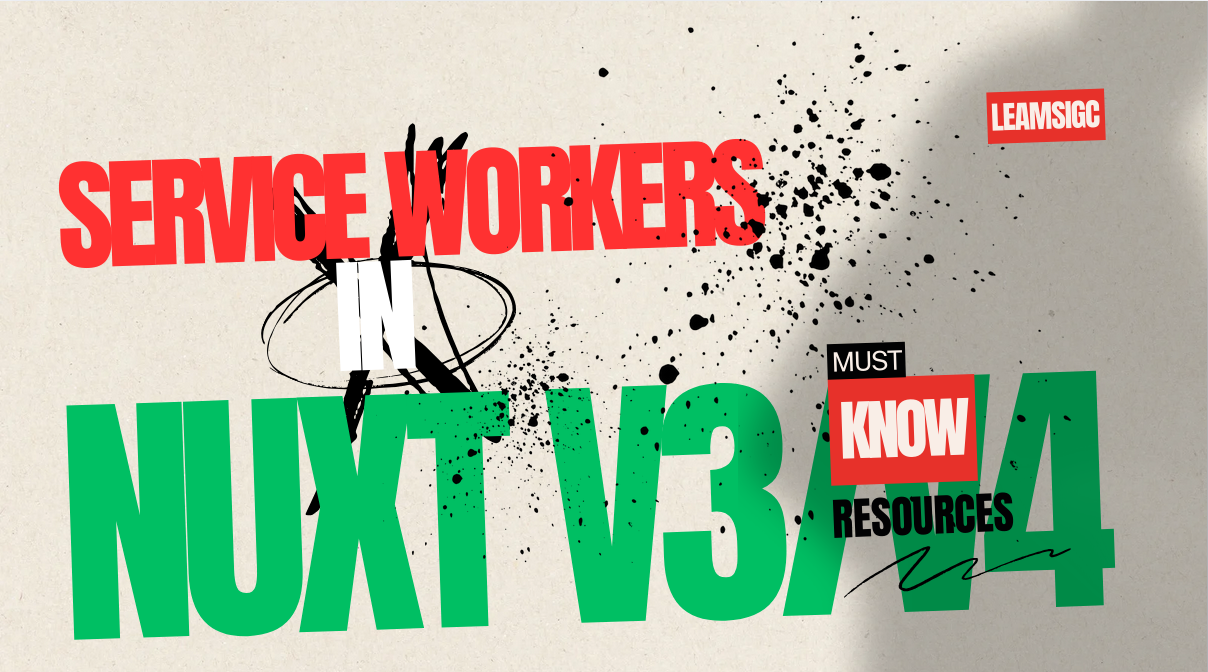
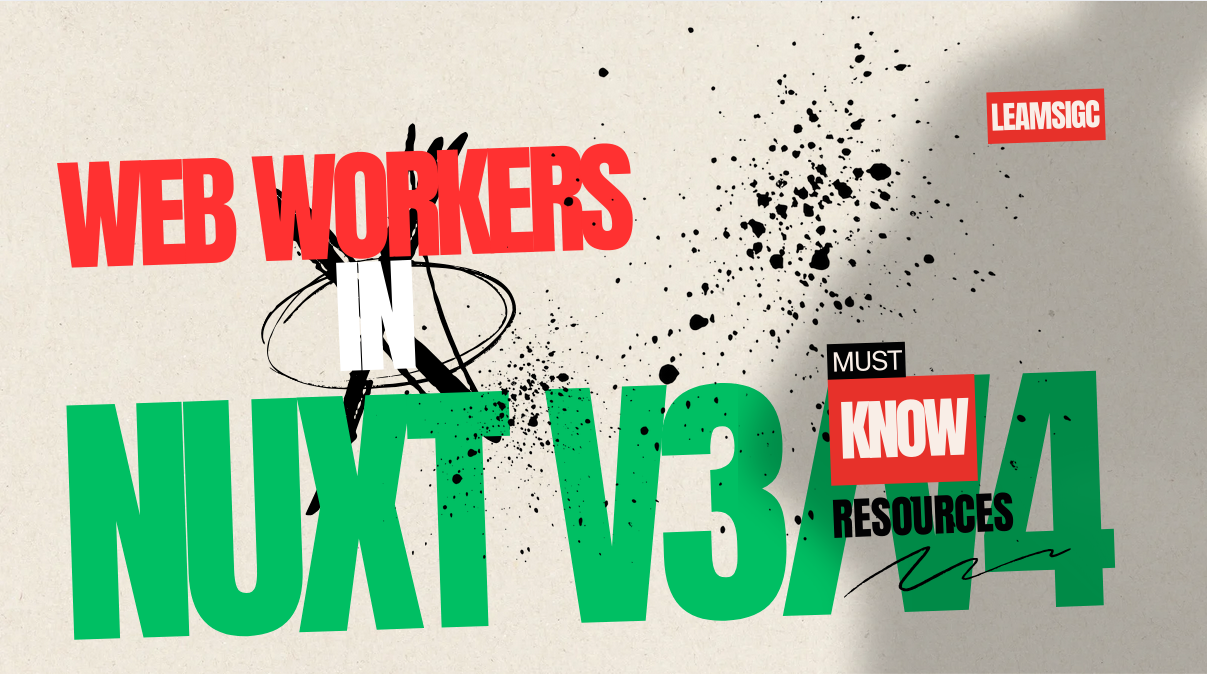
Update the image

diff --git a/content/blogs/how-to-use-web-workers-in-nuxt/index.md b/content/blogs/how-to-use-web-workers-in-nuxt/index.md
@@ -1,6 +1,6 @@
 ---
-title: "Must Know Resources | The easy way of  using Service Workers in Nuxt."
-description: "Looking for a way to use Service Workers in Nuxt? This blog post will show you how to do it in a simple way."
+title: "Must Know Resources | The easy way of  using Web Worker in Nuxt."
+description: "Looking for a way to use Web Worker in Nuxt? This blog post will show you how to do it in a simple way."
 
 head:
   htmlAttrs:
@@ -9,30 +9,30 @@ head:
     class: ""
   meta:
     - name: keywords
-      content: Easy way to use Service Workers in Nuxt v3/v4 | Must Know Resources
+      content: Easy way to use Web Worker in Nuxt v3/v4 | Must Know Resources
     - name: robots
       content: index, follow
     - name: author
-      content: Easy way to use Service Workers in Nuxt v3/v4 | Must Know Resources
+      content: Easy way to use Web Worker in Nuxt v3/v4 | Must Know Resources
     - name: description
-      content: Easy way to use Service Workers in Nuxt v3/v4
+      content: Easy way to use Web Worker in Nuxt v3/v4
     - name: og:image
       content: /media/easy-service-worker-nuxt.png
     - name: twitter:image
       content: /media/easy-service-worker-nuxt.png
     - name: twitter:title
-      content: Easy way to use Service Workers in Nuxt v3/v4 | Must Know Resources
+      content: Easy way to use Web Worker in Nuxt v3/v4 | Must Know Resources
     - name: twitter:card
       content: summary_large_image
     - name: twitter:title
-      content: Easy way to use Service Workers in Nuxt v3/v4 | Must Know Resources
+      content: Easy way to use Web Worker in Nuxt v3/v4 | Must Know Resources
     - name: twitter:description
-      content: Easy way to use Service Workers in Nuxt v3/v4
+      content: Easy way to use Web Worker in Nuxt v3/v4
 
 featured: true
 tags:
   - "Nuxt"
-  - "Service Workers"
+  - "Web Worker"
   - "Vue"
   - "Vite"
   - "Web Workers"
@@ -43,7 +43,7 @@ author:
   social: https://bsky.app/profile/leamsigc.com
 image:
   src: /media/easy-service-worker-nuxt.png
-  alt: Easy way to use Service Workers in Nuxt v3/v4
+  alt: Easy way to use Web Worker in Nuxt v3/v4
 
 ogImage:
   component: BlogOgImage
@@ -56,7 +56,7 @@ publishedAt: 2024-10-02
 ::Blog-hero
 ::
 
-### The easy way of  using Service Workers in Nuxt.
+### The easy way of  using Web Worker in Nuxt.
 
 Base in the Vite documentation:
 
